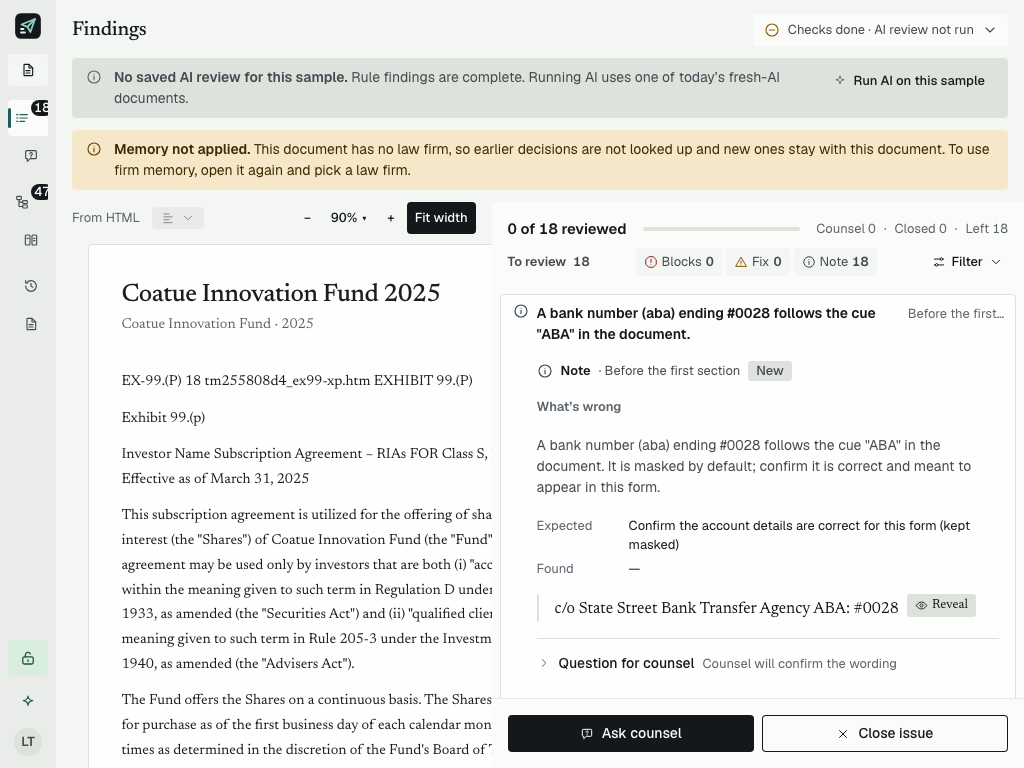
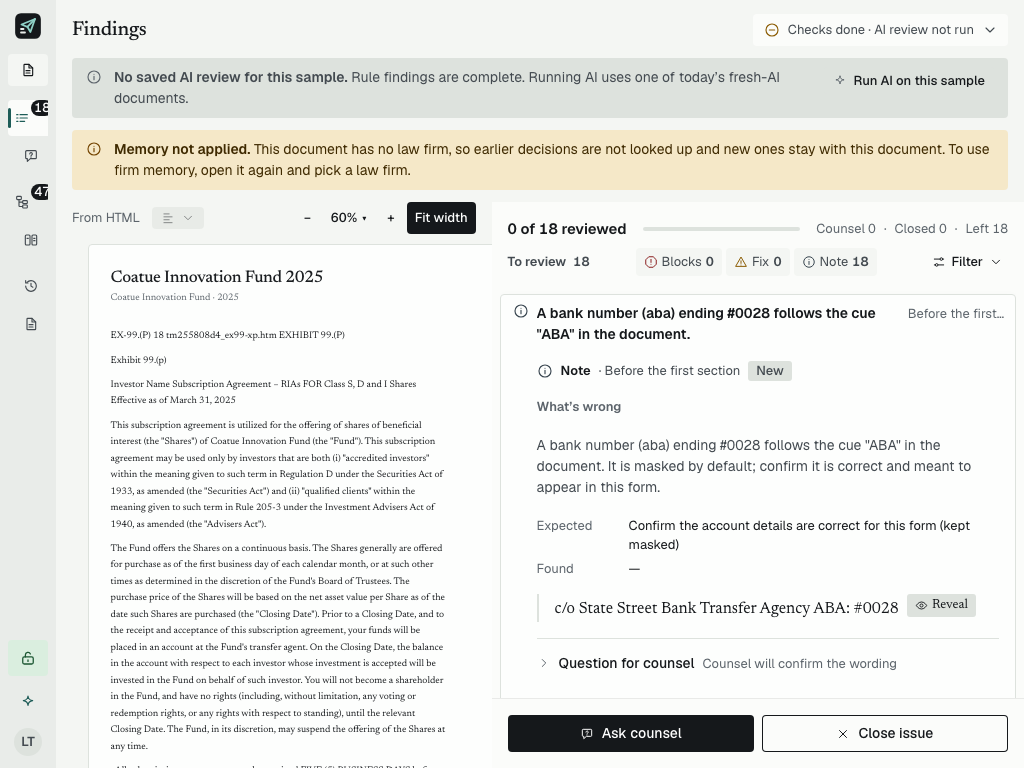
process: findings v2 fit width live (cd06402a)

Changed region(s): [[0.0938, 0.3438, 0.4688, 1.0]]

diff --git a/process/context/all-context.md b/process/context/all-context.md
@@ -1,6 +1,6 @@
 # aduin-transaction - All Context
 
-Last updated: 2026-10-18 (Findings v2 design polish, live d6f88c56; earlier: Findings v2 closeout, live 7db9e602; earlier: Variance Management program closeout, live d9aaddd9; earlier: ai-review-stream-dedup UPDATE PROCESS, live 8a82ead2; earlier: Intake post-closeout fix 8db9245, Variance Phase 01 UPDATE PROCESS)
+Last updated: 2026-10-18 (Findings v2 fit width fix, live cd06402a; earlier: Findings v2 design polish, live d6f88c56; earlier: Findings v2 closeout, live 7db9e602; earlier: Variance Management program closeout, live d9aaddd9; earlier: ai-review-stream-dedup UPDATE PROCESS, live 8a82ead2; earlier: Intake post-closeout fix 8db9245, Variance Phase 01 UPDATE PROCESS)
 
 This file is the root context entrypoint for the repo.
 
@@ -24,7 +24,7 @@ Target user: Anduin's Digitization Service Analyst. Deliverables: live demo, REA
 
 Domain knowledge, defect taxonomy, competitors and product decisions: `process/context/product-domain.md`.
 
-**Live demo (program COMPLETE, 17-10-26):** https://aduin-transaction-web.giathaowork.workers.dev (Worker `aduin-transaction-web`, version `d6f88c56-cbc8-42b6-96cc-f054ba0d0a83` (18-10-26, Findings v2 design polish web assets from main 2df83fe; Worker code and D1 unchanged); rollback chain `7db9e602` (Findings v2, 4c39a5a) -> `d9aaddd9` (Variance, schema 6) -> `8a82ead2` (write-incompatible with schema 6, do not use) -> `b04f1a8c` -> `3d2c7301` -> `cde74507` -> `328ca295` -> `09e7a579` -> `47d98295` -> `23612b12`). Real D1 `aduin-transaction-db` (migrations 0001-0005, demo seed), Turnstile widget live, enforced CSP and security headers, `/api/health` no-store. Findings render in about 1 s without waiting for Turnstile. AI and OCR need a Turnstile token (a human in a real browser; automated Chromium got one automatically on 18-10-26 but not in earlier runs), so the live AI/OCR sweep, AC51 echo and D4 burst are operator-run residuals in backlog. **Fund Package Intake (program COMPLETE with known gaps, 17-10-26; feature folder `process/features/fund-package-intake/`):** the Upload modal takes a whole package (up to 12 files, 40 MB), detects each file's type and role with a stated reason, asks the analyst to confirm unsure ones, resolves outside references ("LPA", "Annex F", W-8BEN-E) against the package, stops false undefined-term findings when the LPA defines the term, shows per-check coverage next to the gate, and puts one "For the GP" request for every missing document in Questions. No new screens. 13 detectors / 15 issue classes plus package-level checks (references, cross-document terms, coverage). Live AI/OCR spend so far: $0 (Intake made 0 model calls). Deploy rules and recipe: `process/context/worker/all-worker.md`.
+**Live demo (program COMPLETE, 17-10-26):** https://aduin-transaction-web.giathaowork.workers.dev (Worker `aduin-transaction-web`, version `cd06402a-93df-499e-8298-560e4c243331` (18-10-26, Findings v2 fit width fix web assets from main 8fcd893/036ba5e; Worker code and D1 unchanged); rollback chain `d6f88c56` (design polish, 2df83fe) -> `7db9e602` (Findings v2, 4c39a5a) -> `d9aaddd9` (Variance, schema 6) -> `8a82ead2` (write-incompatible with schema 6, do not use) -> `b04f1a8c` -> `3d2c7301` -> `cde74507` -> `328ca295` -> `09e7a579` -> `47d98295` -> `23612b12`). Real D1 `aduin-transaction-db` (migrations 0001-0005, demo seed), Turnstile widget live, enforced CSP and security headers, `/api/health` no-store. Findings render in about 1 s without waiting for Turnstile. AI and OCR need a Turnstile token (a human in a real browser; automated Chromium got one automatically on 18-10-26 but not in earlier runs), so the live AI/OCR sweep, AC51 echo and D4 burst are operator-run residuals in backlog. **Fund Package Intake (program COMPLETE with known gaps, 17-10-26; feature folder `process/features/fund-package-intake/`):** the Upload modal takes a whole package (up to 12 files, 40 MB), detects each file's type and role with a stated reason, asks the analyst to confirm unsure ones, resolves outside references ("LPA", "Annex F", W-8BEN-E) against the package, stops false undefined-term findings when the LPA defines the term, shows per-check coverage next to the gate, and puts one "For the GP" request for every missing document in Questions. No new screens. 13 detectors / 15 issue classes plus package-level checks (references, cross-document terms, coverage). Live AI/OCR spend so far: $0 (Intake made 0 model calls). Deploy rules and recipe: `process/context/worker/all-worker.md`.
 
 ---
 
@@ -258,7 +258,7 @@ Resolved: persistence is D1 (real `aduin-transaction-db`, live); Turnstile is li
 - **Variance program (feature `variance-management`, COMPLETE with known gaps, 18-10-26):** all 5 phases VERIFIED and LIVE (see next bullet); core engine in `packages/core/src/variance/` (`process/context/engine/all-engine.md`).
 - **Program status:** all phases are DONE (00-07, 08, 08b, 09, 10); Milestone 1 closed and live. No further phase is planned. Fund Package Intake (4 phases, `process/features/fund-package-intake/`) is also COMPLETE and live; its folder stays in `active/` until the operator residuals run. Test counts after Intake: core 3084 (+3 skip), web unit 298 (+3 from intake fix 8db9245), preview e2e 217 (+1 skip), stack-memory 11, worker 526, scripts 162.
 - **Variance Management program (`process/features/variance-management/`, COMPLETE with known gaps, 18-10-26):** LIVE as Worker `d9aaddd9-a62f-4850-8ff2-89889c8ef652` (workers.dev only; D1 migration `0006_variance.sql` applied, `schema_version` 6; Time Travel bookmark `0000003e-00000000-00005107-13e12919a05a2c9178a343de17daef4e`). Variance lives inside the existing Findings and Questions screens (Changes segment, change rows with owner chip, baseline control, cosmetic groups, per-owner Questions tabs, answer intent and scope, R-01 regression check, gate counts changes); no new screens. All AC-V1 to AC-V20 met by automated gates; live write path of AC-V14/V16, the live probe re-run and a manual keyboard pass are operator residuals. Counts at merged main 0c6312e: core 3190 (+3 skip), worker 608, web unit 518, scripts 183, preview e2e 242 (+1 skip), stack-memory 12. Live AI calls for the feature: 0. **Rollback caveat:** after 0006 the previous Worker `8a82ead2` refuses memory writes (it pins schema 5), so rollback means roll forward or D1 restore; chain `d9aaddd9` -> `8a82ead2` (write-incompatible) -> `b04f1a8c` -> `3d2c7301`. Program report: `process/features/variance-management/active/variance-mvp_17-10-26/variance-mvp_REPORT_17-10-26.md` (folder stays in `active/` until operator residuals run). Details: `process/context/worker/all-worker.md`, `process/context/tests/all-tests.md`, `process/context/ui/all-ui.md`.
-- **Findings v2 (`process/features/findings-v2/`, COMPLETE with known gaps, 18-10-26):** LIVE as Worker `d6f88c56` (assets only, design polish 2df83fe; rollback `7db9e602`). The Findings panel is now `apps/web/src/features/review/v2` plus `features/review/zoom` and `styles/findings-v2.css` (sticky two-button bar, reason modal, accordion groups with progress, resizable panel, document zoom, J/K/C/X shortcuts, outcome toast with Undo). Phase A (9e866f2, 7a0d172, 597c9cf) and Phase B (9427237 .. 4c39a5a) VERIFIED; Phase C (dedupe) DROPPED, D11 descoped, D13 backlog. Counts at 2df83fe: web unit 545, preview e2e 258 (+1 opt-in skip), stack-memory 12. Closeout: `process/features/findings-v2/completed/findings-v2_18-10-26/findings-v2_REPORT_18-10-26.md`; follow-ups in `process/features/findings-v2/backlog/`. Details: `process/context/ui/all-ui.md`, `process/context/tests/all-tests.md`.
+- **Findings v2 (`process/features/findings-v2/`, COMPLETE with known gaps, 18-10-26):** LIVE as Worker `cd06402a` (assets only, fit width fix 8fcd893; rollback `d6f88c56`, then `7db9e602`). The Findings panel is now `apps/web/src/features/review/v2` plus `features/review/zoom` and `styles/findings-v2.css` (sticky two-button bar, reason modal, accordion groups with progress, resizable panel, document zoom, J/K/C/X shortcuts, outcome toast with Undo). Phase A (9e866f2, 7a0d172, 597c9cf) and Phase B (9427237 .. 4c39a5a) VERIFIED; Phase C (dedupe) DROPPED, D11 descoped, D13 backlog. Counts at 8fcd893: web unit 545, preview e2e 261 (+1 opt-in skip), stack-memory 12. Closeout: `process/features/findings-v2/completed/findings-v2_18-10-26/findings-v2_REPORT_18-10-26.md`; follow-ups in `process/features/findings-v2/backlog/`. Details: `process/context/ui/all-ui.md`, `process/context/tests/all-tests.md`.
 - **Operator run (residual R2, backlog `process/general-plans/backlog/phase10-*_NOTE_17-10-26.md`):** with a human in a real browser, run the AC51 `rules_hash8` echo, the live AI/OCR sweep (max 3 AI per UTC day), AI timing at `max_tokens` 10000, and the D4 `rows_written` burst. Also capture demo screenshots 13-memory and 14-audit and record a manual keyboard pass. Residual R4: Turnstile iframe CSP with a human-solved challenge is unevidenced. Residual R-CSP-STYLE: `style-src 'unsafe-inline'` for Radix. Worker CPU p99 16 ms is above the 10 ms Free limit (observation).
 - **Open questions:** does Docxodus WASM run on Cloudflare Workers (not needed for the shipped DOCX path)? Which free OpenRouter vision model is good enough for live OCR (unproven, R2)? OpenRouter credits are not topped up; the paid fallback is unavailable.
 - **Deferred:** the missing-target cross-reference detector (feasibility INCONCLUSIVE, `process/general-plans/backlog/missing-target-xref_17-10-26/`).

diff --git a/process/context/worker/all-worker.md b/process/context/worker/all-worker.md
@@ -12,7 +12,7 @@ metadata:
 
 # aduin-transaction - Worker Context
 
-Last updated: 2026-10-18 (Findings v2 design polish deploy d6f88c56; earlier: Findings v2 web-assets deploy 7db9e602; earlier: Variance P05 deploy d9aaddd9 + schema-bump rollback lesson; earlier: ai-review-stream-dedup EXECUTE: streamed upstream + timeout refund, code HEAD 685574d; earlier: Phase 10 UPDATE PROCESS, f0d924b)
+Last updated: 2026-10-18 (Findings v2 fit width deploy cd06402a; earlier: Findings v2 design polish deploy d6f88c56; earlier: Findings v2 web-assets deploy 7db9e602; earlier: Variance P05 deploy d9aaddd9 + schema-bump rollback lesson; earlier: ai-review-stream-dedup EXECUTE: streamed upstream + timeout refund, code HEAD 685574d; earlier: Phase 10 UPDATE PROCESS, f0d924b)
 
 Entrypoint for the `worker/` context group (one doc for now). Read this before touching `apps/worker`, `/api/*`, limits, or a deploy.
 
@@ -90,7 +90,7 @@ Set on the live Worker: `COOKIE_SIGNING_KEYS` (JSON map kid to key), `COOKIE_SIG
 
 ## Deploy Rules And Redeploy Recipe
 
-- Live: https://aduin-transaction-web.giathaowork.workers.dev (workers.dev subdomain `giathaowork`; **active version `d6f88c56-cbc8-42b6-96cc-f054ba0d0a83` since 18-10-26 (Findings v2 design polish web assets from main 2df83fe; assets only; deploy preflight 13/13). Its rollback target is `7db9e602-a688-4559-ae2d-d69892c873be` (Findings v2 web assets from main 4c39a5a; assets only, Worker code, migrations and D1 unchanged), then `d9aaddd9-a62f-4850-8ff2-89889c8ef652` (Variance P01-P05 plus the merged ai-stream-dedup content, code 566416e, migrations 0001-0006, `/api/memory/health` schema 6); below, `8a82ead2` is the previous version and must NOT be used as an automatic rollback target (see Schema-bump rollback rule)**; previous active version `8a82ead2-07ed-4b06-ad60-226d3f4734c8` (18-10-26, ai-review-stream-dedup: streamed upstream with 60 s idle timeout and 420 s ceiling, visitor refund on timeout, no duplicate AI findings; built from deploy branch `deploy/ai-stream-dedup` = hotfix `b04f1a8c` base plus 4 cherry-picks, migrations still 0001-0005); rollback chain `b04f1a8c-41f5-4c20-92dc-196d6e7d252a` (hotfix intake-readiness message, a4d7a34 + c7fcb17) -> `3d2c7301-a4a5-487c-bd7d-2f2c0800be6f` (Fund Package Intake web assets from main a4d7a34; Worker code 994ea54 unchanged by Intake, 17-10-26) -> `cde74507-7b92-4e43-99fa-754de2c5cf3b` -> `328ca295-d5da-487e-a063-843b0c7c86db` -> `09e7a579` -> `47d98295-c583-4dc0-9f96-f9e161c8cf35` -> `23612b12-51c7-4d75-a324-f4f2f6392ba8` (render-first fix af59da6; older: `67c796ff` first go-live with the Turnstile-blocking render bug, `4325e4e4`). Live checks (re-run on 3d2c7301: health no-store, CSP byte-identical to `_headers`, stack slice, package smoke 8/8): CSP and security headers on `/`, `/api/health` 200 `no-store`, `/api/memory/health` schema 5, stack smoke 1 passed (zero upstream AI/OCR calls), findings in about 1 s on #5/#3/#1 with no Turnstile overlay and no `/api/session` call. Phase 04b, 05, 06 and 10 code is deployed; AI and OCR need a Turnstile token. Earlier runs found automated Chromium got none (residual R2), but on 18-10-26 a Playwright Chromium upload against 8a82ead2 was issued a token automatically (widget flexible mode) and the full AI review ran (/api/ai 178.5 s, 8 AI findings, 0 duplicates of deterministic findings), so a human is no longer strictly required; treat it as run-dependent. Live worker CPU p99 before this deploy was 35.0 ms (24 h, p50 4.1 ms); CPU after a streamed review is not yet measured (backlog).
+- Live: https://aduin-transaction-web.giathaowork.workers.dev (workers.dev subdomain `giathaowork`; **active version `cd06402a-93df-499e-8298-560e4c243331` since 18-10-26 (Findings v2 fit width fix web assets from main 8fcd893/036ba5e; assets only; deploy preflight 13/13). Its rollback target is `d6f88c56-cbc8-42b6-96cc-f054ba0d0a83` (design polish, 2df83fe; assets only), then `7db9e602-a688-4559-ae2d-d69892c873be` (Findings v2 web assets from main 4c39a5a; assets only, Worker code, migrations and D1 unchanged), then `d9aaddd9-a62f-4850-8ff2-89889c8ef652` (Variance P01-P05 plus the merged ai-stream-dedup content, code 566416e, migrations 0001-0006, `/api/memory/health` schema 6); below, `8a82ead2` is the previous version and must NOT be used as an automatic rollback target (see Schema-bump rollback rule)**; previous active version `8a82ead2-07ed-4b06-ad60-226d3f4734c8` (18-10-26, ai-review-stream-dedup: streamed upstream with 60 s idle timeout and 420 s ceiling, visitor refund on timeout, no duplicate AI findings; built from deploy branch `deploy/ai-stream-dedup` = hotfix `b04f1a8c` base plus 4 cherry-picks, migrations still 0001-0005); rollback chain `b04f1a8c-41f5-4c20-92dc-196d6e7d252a` (hotfix intake-readiness message, a4d7a34 + c7fcb17) -> `3d2c7301-a4a5-487c-bd7d-2f2c0800be6f` (Fund Package Intake web assets from main a4d7a34; Worker code 994ea54 unchanged by Intake, 17-10-26) -> `cde74507-7b92-4e43-99fa-754de2c5cf3b` -> `328ca295-d5da-487e-a063-843b0c7c86db` -> `09e7a579` -> `47d98295-c583-4dc0-9f96-f9e161c8cf35` -> `23612b12-51c7-4d75-a324-f4f2f6392ba8` (render-first fix af59da6; older: `67c796ff` first go-live with the Turnstile-blocking render bug, `4325e4e4`). Live checks (re-run on 3d2c7301: health no-store, CSP byte-identical to `_headers`, stack slice, package smoke 8/8): CSP and security headers on `/`, `/api/health` 200 `no-store`, `/api/memory/health` schema 5, stack smoke 1 passed (zero upstream AI/OCR calls), findings in about 1 s on #5/#3/#1 with no Turnstile overlay and no `/api/session` call. Phase 04b, 05, 06 and 10 code is deployed; AI and OCR need a Turnstile token. Earlier runs found automated Chromium got none (residual R2), but on 18-10-26 a Playwright Chromium upload against 8a82ead2 was issued a token automatically (widget flexible mode) and the full AI review ran (/api/ai 178.5 s, 8 AI findings, 0 duplicates of deterministic findings), so a human is no longer strictly required; treat it as run-dependent. Live worker CPU p99 before this deploy was 35.0 ms (24 h, p50 4.1 ms); CPU after a streamed review is not yet measured (backlog).
 - **Schema-bump rollback rule (incident 18-10-26):** after a migration that bumps `app_meta.schema_version`, the previous Worker version is write-incompatible. `EXPECTED_SCHEMA_VERSION` is pinned in `apps/worker/src/memory/health.ts` and `ctx.ts` refuses memory writes on a mismatch, so rolling the Worker back while keeping the migration returns 503 on every memory write (reads still work). "Roll the Worker back, keep the migration" is NOT safe. After such a deploy, a failed post-deploy check must be resolved by rolling FORWARD (fix and redeploy, or `wrangler rollback` to the new version again) or by the user restoring D1 from the Time Travel bookmark taken before the migration. Plans must never name the pre-migration version as an automatic rollback target. Variance P05 saw about 3.5 min of write outage (20:28:35-20:32:11 UTC) before rolling forward. Always take a Time Travel bookmark and a SQL export before a non-idempotent migration. Probe failures that are harness bugs (not product) do not justify a rollback once the schema has moved.
 - Hotfix pattern: when main holds undeployed work that needs a migration, build the hotfix from the live source commit plus a cherry-pick in a separate worktree; record the branch.
 - Hard rules: only `aduin-transaction-*` names on workers.dev/pages.dev; never touch zone `itsjiathao.com`; no route or custom domain; Workers Free only; `git push` needs user OK. Run `pnpm guard:cf && pnpm secrets:scan` before every deploy.

diff --git a/process/features/findings-v2/completed/findings-v2_18-10-26/findings-v2-phase-b_REPORT_18-10-26.md b/process/features/findings-v2/completed/findings-v2_18-10-26/findings-v2-phase-b_REPORT_18-10-26.md
@@ -230,3 +230,13 @@ Gates: web vitest 73 files / 544 tests; typecheck clean; findings-v2 e2e 11/11; 
 - Tests: zoom-math unit (fit floor 60, manual floor 60, - no-op at 60, + to 70); findings-v2 e2e +3 (1440x900 and 1024x768 fit, 1024 with the panel at 65%), D15 test floor updated; design-probe now also captures `design-probe/app-1440-fit.png` and `app-1024-fit.png`.
 - Gates: vitest 545 (73 files), typecheck 0, findings-v2 19, layout-vs-mockup 5, finding-highlight 4, perf-budget 4, full preview 261 + 1 skip, design-probe 1. Not deployed.
 - Residual: at 1024 with the default panel, Fit width cannot fit the whole page (needs ~44%); the header banners take about 130 px (backlog `findings-v2-header-status-chips_NOTE_18-10-26.md`).
+
+### Fit width deploy (18-10-26)
+- Commit deployed: code `8fcd893`, main HEAD `036ba5e`. Static assets only; no migration, no route, no custom domain, workers.dev only.
+- New live version: `cd06402a-93df-499e-8298-560e4c243331` (100%, CF API deployments list).
+- Rollback target: `d6f88c56-cbc8-42b6-96cc-f054ba0d0a83` (re-checked live right before deploy); deeper `7db9e602`, `d9aaddd9`; never `8a82ead2`.
+- Pre-deploy: port 4317 freed, `pnpm guard:cf` OK, `pnpm secrets:scan` OK, site key read from the live bundle (exactly 1 distinct match, never printed), plain web bundle made right before deploy. `deploy:preflight` 13/13 PASS.
+- Live checks: `/api/health` 200 `{ok:true}` `cache-control: no-store`; title "Preflight"; sample #1: 18 findings in about 0.86 s, no Turnstile wait; `findings-column` + `action-counsel` present; 0 console errors; only API call `GET /api/quota` (0 AI, 0 OCR).
+- Fit width: 1440x900 readout 77%, page right 803.5 <= docscroll right 836 (fits), docscroll right 836 <= panel left 836. 1024x768 readout 60%, docscroll right 491.6 <= panel left 491.6; page right 508 overflows docscroll by about 16 px and scrolls horizontally (expected per D15 amendment).
+- Screenshots (Fit width default, first finding opened): `design-probe/live-1440.png`, `design-probe/live-1024.png`.
+- Rollback: not needed.
